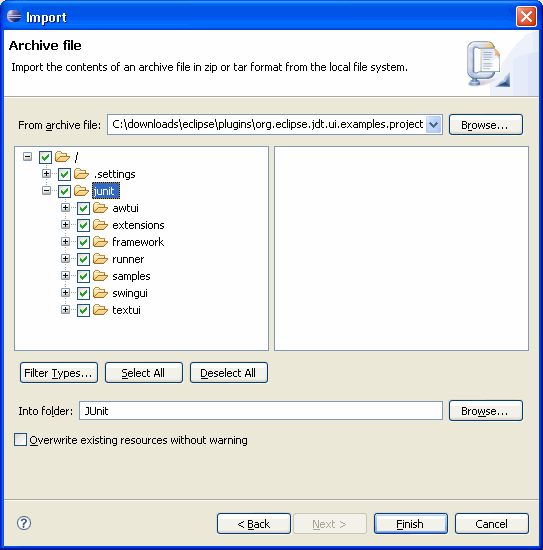
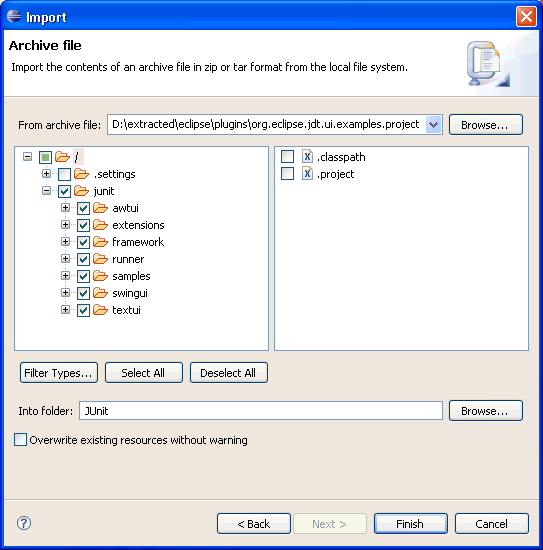
work on getting started

diff --git a/bundles/org.eclipse.jdt.doc.user/gettingStarted/qs-6.htm b/bundles/org.eclipse.jdt.doc.user/gettingStarted/qs-6.htm
@@ -84,25 +84,44 @@ classes and members in a variety of different ways. </p>
     <img src="../images/qs-33b.png"  alt="History menu"> 
 	</p>
   </li>
-  <li>Open the
-  <a class="command-link" href='javascript:executeCommand("org.eclipse.ui.window.preferences(preferencePageId=org.eclipse.jdt.ui.preferences.JavaBasePreferencePage)")'>
-  <img src="PLUGINS_ROOT/org.eclipse.help/command_link.png" alt="Goto the Java preference page">
-  <strong>Java</strong></a> preference page, find the group labeled
-  <strong>When opening a Type Hierarchy</strong> and enable
-  <strong>Open a new Type Hierarchy Perspective</strong>.
-  Then click&nbsp;<strong>OK</strong>.</li>
-  <li> In the Hierarchy view, select the Test element again, and activate&nbsp;<strong>Open 
-    Type Hierarchy</strong> from the Navigate menu bar. The resource containing 
-    the selected type is shown in a new perspective (the Hierarchy perspective), 
-    and its source is shown in the Java editor.&nbsp; By setting the preference 
-    option for viewing type hierarchy perspectives, you can have more than one 
-    type hierarchy in your workbench and switch between them as needed.
-    Return to the
-    <a class="command-link" href='javascript:executeCommand("org.eclipse.ui.perspectives.showPerspective(org.eclipse.ui.perspectives.showPerspective.perspectiveId=org.eclipse.jdt.ui.JavaPerspective)")'>
-    <img src="PLUGINS_ROOT/org.eclipse.help/command_link.png" alt="Goto the Java preference page">
-    <strong>Java</strong> perspective</a> before proceeding to the next step.
-  </li>
+
+
+
+
 </ol>
+<p><a name="quick_type_hierarchy"></a>
+If you are working in the editor and only want to do a quick lookup for a hierarchy you can use the
+<strong>Quick Type Hierarchy</strong>:</p>
+<ol>
+<li>Open 
+<em>junit.framework.TestCase.java</em> file in the Java editor 
+if you do not already have it open.</li>
+<li>Select the type name in the Java editor
+<li>Press <code>Ctrl+T</code> or invoke <strong>Navigate > Quick Type Hierarchy</strong> and the
+in-place type hierarchy view is shown.</li>
+
+<li>Pressing <code>Ctrl+T</code> while the type hierarchy view is shown will toggle between 
+supertype hierarchy and subtype hierarchy.</li>
+</ol>
+<img src="../images/qs-quickview_05.png" alt="">
+<p>
+To see where a virtual method call can resolve to:
+</p>
+<ol>
+<li>In the body of <em>runBare()</em> select the invocation of
+<em>setUp()</em></li>
+<li>Press <code>Ctrl+T</code> or invoke <strong>Navigate > Quick Type Hierarchy</strong> and the
+in-place type hierarchy view is shown.</li>
+<li>You can see that <em>setIup()</em> is implemented in 3 more classes. <em>Object</em> and <em>Assert</em> are
+only shown with a white filled images as are only required to complete the hierarchy but do not implement <em>setUp()</em></li>
+<li>Select a type to navigate to its implementation of <em>setUp()</em></li>
+</ol>
+<img src="../images/qs-quickview_06.png" alt="">
+
+
+
+
+
 <P class="nav_footer" id="nav_footer">Next Section: <A href="qs-11.htm">Searching the workbench</A>
 </P>
 <img src="../images/ngrelc.png"  alt="Related concepts" border="0"> 

diff --git a/bundles/org.eclipse.jdt.doc.user/gettingStarted/qs-3.htm b/bundles/org.eclipse.jdt.doc.user/gettingStarted/qs-3.htm
@@ -23,9 +23,9 @@
 
 <P>First you need to download the JUnit source code.</P>
 <OL>
-	<LI>Go to the <A href="http://www.eclipse.org/downloads/">http://www.eclipse.org/downloads/</A>
+	<LI>Go to the <A href="http://download.eclipse.org/eclipse/downloads/">http://download.eclipse.org/eclipse/downloads/</A>
 	page</LI>
-	<LI>Select the link 'Other downloads for...' for the release you are working with</LI>
+	<LI>Select the link for the latest 3.2 release</LI>
 	<LI>Scroll down to the <EM>Example Plug-ins</EM> section and download
 	the examples archive.</LI>
 	<LI>Extract the contents of the Zip file to a directory  from  now on  referenced as &lt;Downloads&gt; (e.g. c:\myDownloads).
@@ -45,9 +45,7 @@
 	<STRONG>New Java Project</STRONG></a> wizard:
 	<P><img src="../images/qs-newjavaproject.png"  alt="New Java Project wizard"></P>
 	On this page, type &quot;JUnit&quot; in the <STRONG>Project name</STRONG>
-	field.  Make sure the <STRONG>JDK compliance</STRONG> is set to 1.4, and click <STRONG>Finish</STRONG>. 
-	(If you are interested in the new features in Eclipse supporting J2SE 5.0 development,
-	see the companion guide "Getting Started with Java 5.0 development in Eclipse").
+	field. Then click <STRONG>Finish</STRONG>. 
 	</LI>
 	<LI>In the Package Explorer, make sure that the JUnit project is
 	selected. Select the menu item <STRONG>File &gt; Import...</STRONG>.</LI>
@@ -55,11 +53,11 @@
 	</LI>
 	<LI>Click the <STRONG>Browse</STRONG> button next to the <STRONG>Archive
 	file</STRONG> field and browse to select
-	&lt;Downloads&gt;eclipse/plugins/org.eclipse.jdt.ui.examples.projects_3.0.0/archive/junit/junit381src.jar.<BR>
+	<p><em>&lt;Downloads&gt;/eclipse/plugins/org.eclipse.jdt.ui.examples.projects_3.1.100/archive/junit/junit381src.jar</em></p>
 	<STRONG>Note:</STRONG> This step assumes that you followed steps 1-3 in the <STRONG>Getting
 	the Sample Code</STRONG> section above.<BR>
 	</LI>
-	<LI>In the Import wizard, below the file tree click <STRONG>Select
+	<LI>In the Import wizard, expand the root node, press <STRONG>Deselect All</STRONG> and select only the <STRONG>junit</STRONG> node.
 	All</STRONG>. You can expand and select elements within the <EM>junit</EM>
 	directory on the left pane to view the individual resources that you
 	are importing on the right pane. <EM>Note: Do not deselect any of the
@@ -73,10 +71,7 @@
 	indicator, notice that the imported resources are compiled as they are
 	imported into the workbench. This is because the <STRONG>Build
 	automatically</STRONG> option is checked on the Workbench preferences
-	page. You will be prompted to overwrite the .classpath and .project
-	files in the JUnit project. This is because the .classpath resource was
-	created for you when you created the JUnit project. It is safe to
-	overwrite these files.</LI>
+	page.</LI>
 	<LI>In the Package Explorer view, expand the JUnit project to view the
 	JUnit packages.
 	<P><img src="../images/qs-6.png"  alt="Package explorer"></P>

diff --git a/bundles/org.eclipse.jdt.doc.user/gettingStarted/qs-Quickviews.htm b/bundles/org.eclipse.jdt.doc.user/gettingStarted/qs-Quickviews.htm
@@ -9,9 +9,9 @@
 <body>
 <h1> Using quick views </h1>
 <p> 
-In this section, you will be introduced to the <a href="#quick_outline">outline</a> and
-<a href="#quick_type_hierarchy">type hierarchy</a> quick views. Quick views are in-place views which 
-are shown on top of the editor area and can easily be controlled using the keyboard. 
+In this section, you will be introduced to the quick outline view. Quick views are in-place views which 
+are shown on top of the editor area and can easily be controlled using the keyboard. A second quick view will
+be introduced in the <a href="qs-6.htm#quick_type_hierarchy">Type Hierarchy section</a>.
 </p>
 <h2>Quick Outline <a name="quick_outline"></a></h2>
 <p>To use the quick outline view in the Java editor:</p>
@@ -48,21 +48,6 @@ The menu items can be divided into 3 categories:
 Press <code>Ctrl+F3</code> to open the quick outline for the currently selected type.
 </p>
 
-<h2>Quick Type Hierarchy <a name="quick_type_hierarchy"></a></h2>
-<p>To use the quick type hierarchy in the Java editor:</p>
-<ol>
-<li>Open 
-<em>junit.framework.TestCase.java</em> file in the Java editor 
-if you do not already have it open.</li>
-<li>Select the type name in the Java editor
-<li>Press <code>Ctrl+T</code> or select <strong>Navigate > Quick Type Hierarchy</strong> and the
-in-place type hierarchy view is shown.</li>
-
-<li>Pressing <code>Ctrl+T</code> while the type hierarchy view is shown will toggle between 
-supertype hierarchy and subtype hierarchy.</li>
-</ol>
-
-<img src="../images/qs-quickview_05.png" alt="">
 
 <P class="nav_footer" id="nav_footer">Next Section: <A href="qs-AddMethod.htm">Adding new methods</A>
 </P>

diff --git a/bundles/org.eclipse.jdt.doc.user/gettingStarted/qs-OpenJavaEditor.htm b/bundles/org.eclipse.jdt.doc.user/gettingStarted/qs-OpenJavaEditor.htm
@@ -18,19 +18,19 @@
     </p>
     <p>
 		<ol>
-		  <li> Expand the package <em>junit.samples</em> and select the file <em>VectorTest.java</em>.&nbsp;
+		  <li> Expand the package <em>junit.samples</em> and select the file <em>VectorTest.java</em>.
 		    You can open <em>VectorTest.java</em> in the Java editor by double clicking on
 		    it. In general you can open a Java editor for Java files, types, methods and fields by simply double 
 		    clicking on them. For example, to open the editor directly on the method <em>testClone</em>
 		    defined in <em>VectorTest.java</em>, expand the file in the Package Explorer and double click on the method.</li>
-		  <li> Notice the syntax highlighting.&nbsp; Different kinds of elements in the
+		  <li> Notice the syntax highlighting. Different kinds of elements in the
 		    Java source are rendered in unique colors.&nbsp; Examples of Java source
 		    elements that are rendered differently are: 
 		    <ul>
 		      <li> Regular comments </li>
 		      <li> Javadoc comments </li>
 		      <li> Keywords </li>
-		      <li> Strings. </li>
+		      <li> Strings </li>
 		    </ul>
 			<p>
 		    <img src="../images/qs-8.png"  alt="Syntax highlighting">

diff --git a/bundles/org.eclipse.jdt.doc.user/gettingStarted/qs-Navigate.htm b/bundles/org.eclipse.jdt.doc.user/gettingStarted/qs-Navigate.htm
@@ -55,7 +55,7 @@
 	    <em>Note: You can also open editors on types and methods in the Hierarchy view.</em> 
 	  </li>
 	</ol>
-	<P class="nav_footer" id="nav_footer">Next Section: <A href="qs-6.htm">Viewing the type Hierarchy</A>
+	<P class="nav_footer" id="nav_footer">Next Section: <A href="qs-6.htm">Viewing the type hierarchy</A>
 </P>
     <p>
       <img src="../images/ngrelt.png" alt="Related tasks" border="0" >
